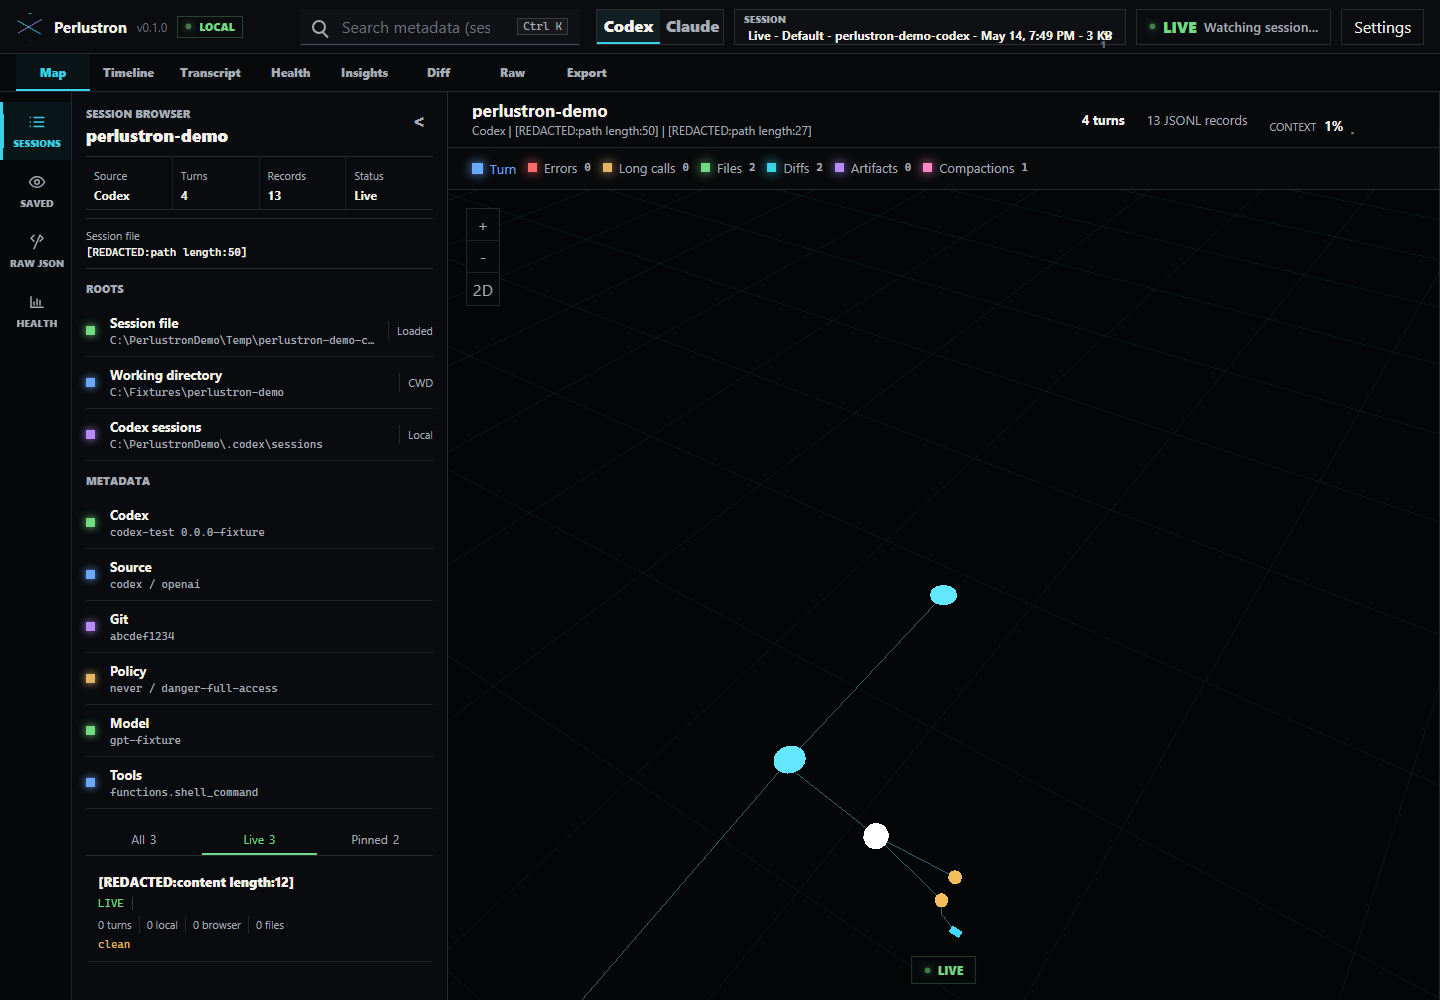
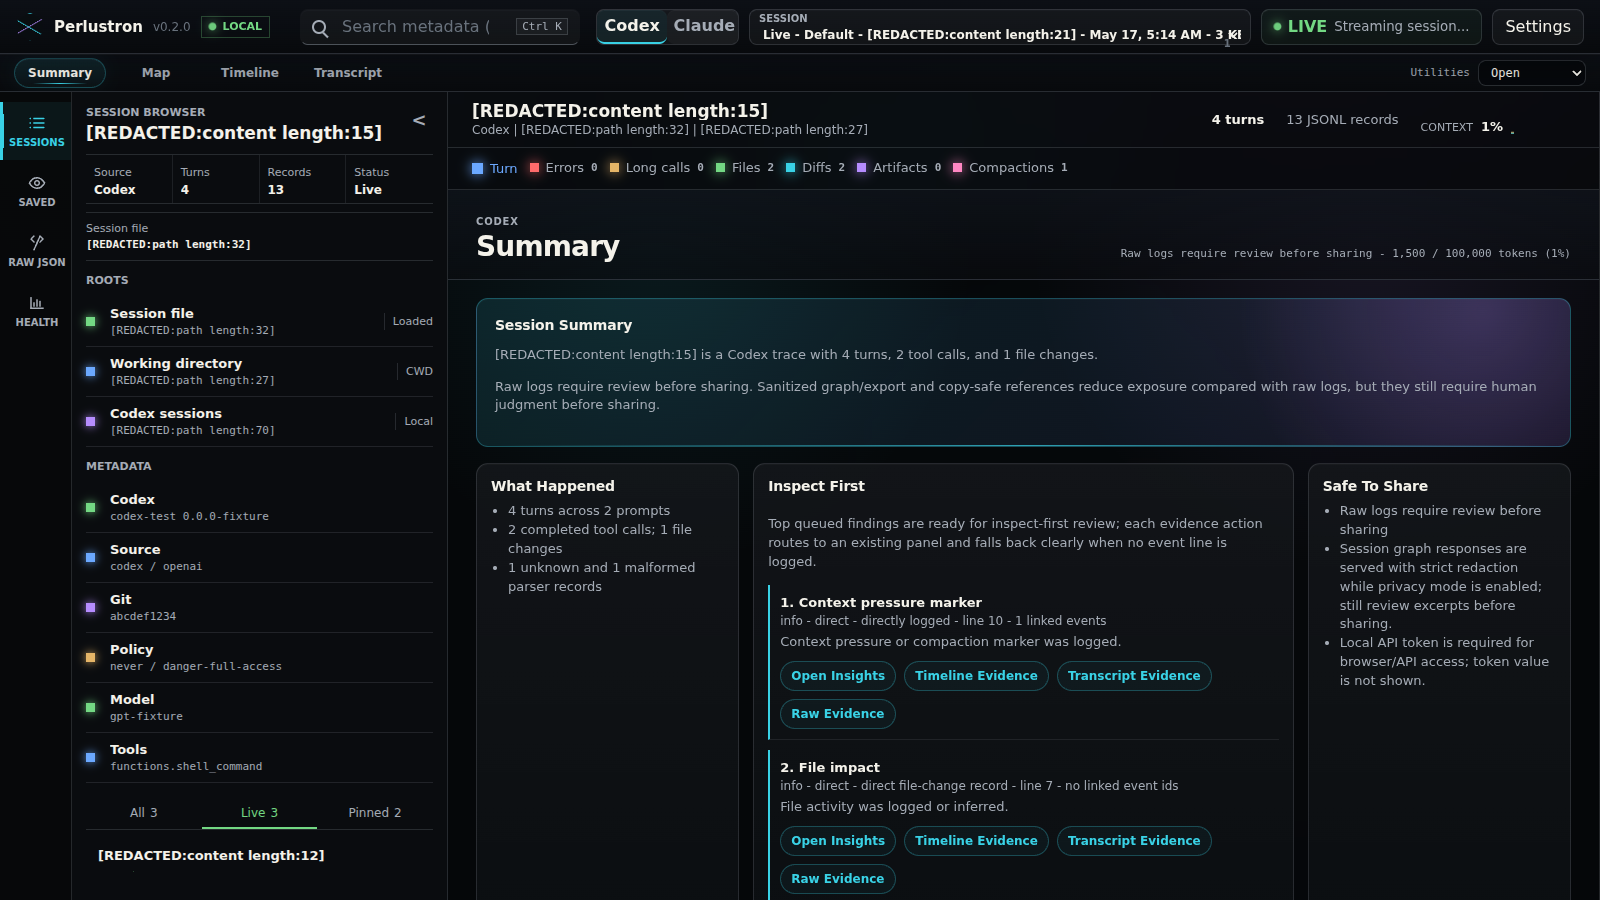
docs: refresh Summary-first demo screenshot (#5)

diff --git a/README.md b/README.md
@@ -25,9 +25,9 @@ perlustron unknowns path/to/session.jsonl --redacted -o unknowns-redacted.json
 perlustron fixture-report path/to/session.jsonl --redacted -o fixture-report.md
 ```
 
-![Perlustron sanitized demo screenshot](docs/assets/perlustron-demo.png)
+![Perlustron Summary-first sanitized demo screenshot](docs/assets/perlustron-demo.png)
 
-The screenshot above was generated from the bundled sanitized Codex demo with privacy mode enabled. Do not use private logs for screenshots or marketing assets.
+The screenshot above was generated from the bundled sanitized Codex demo in privacy mode on the Summary-first workflow, including inspect-first evidence actions and raw-log shareability cues. Do not use private logs for screenshots or marketing assets.
 
 ## Install
 

diff --git a/docs/fixtures.md b/docs/fixtures.md
@@ -1,7 +1,7 @@
 # Fixtures
 
 Fixtures under `fixtures/` are synthetic/sanitized and safe for demos, tests, screenshots, and benchmarks.
-The README screenshot at `docs/assets/perlustron-demo.png` is generated from the bundled sanitized Codex demo with privacy mode enabled.
+The README screenshot at `docs/assets/perlustron-demo.png` is generated from the bundled sanitized Codex demo in privacy mode on the Summary-first workflow, including inspect-first evidence actions and raw-log shareability cues.
 
 ## Current Fixtures
 
